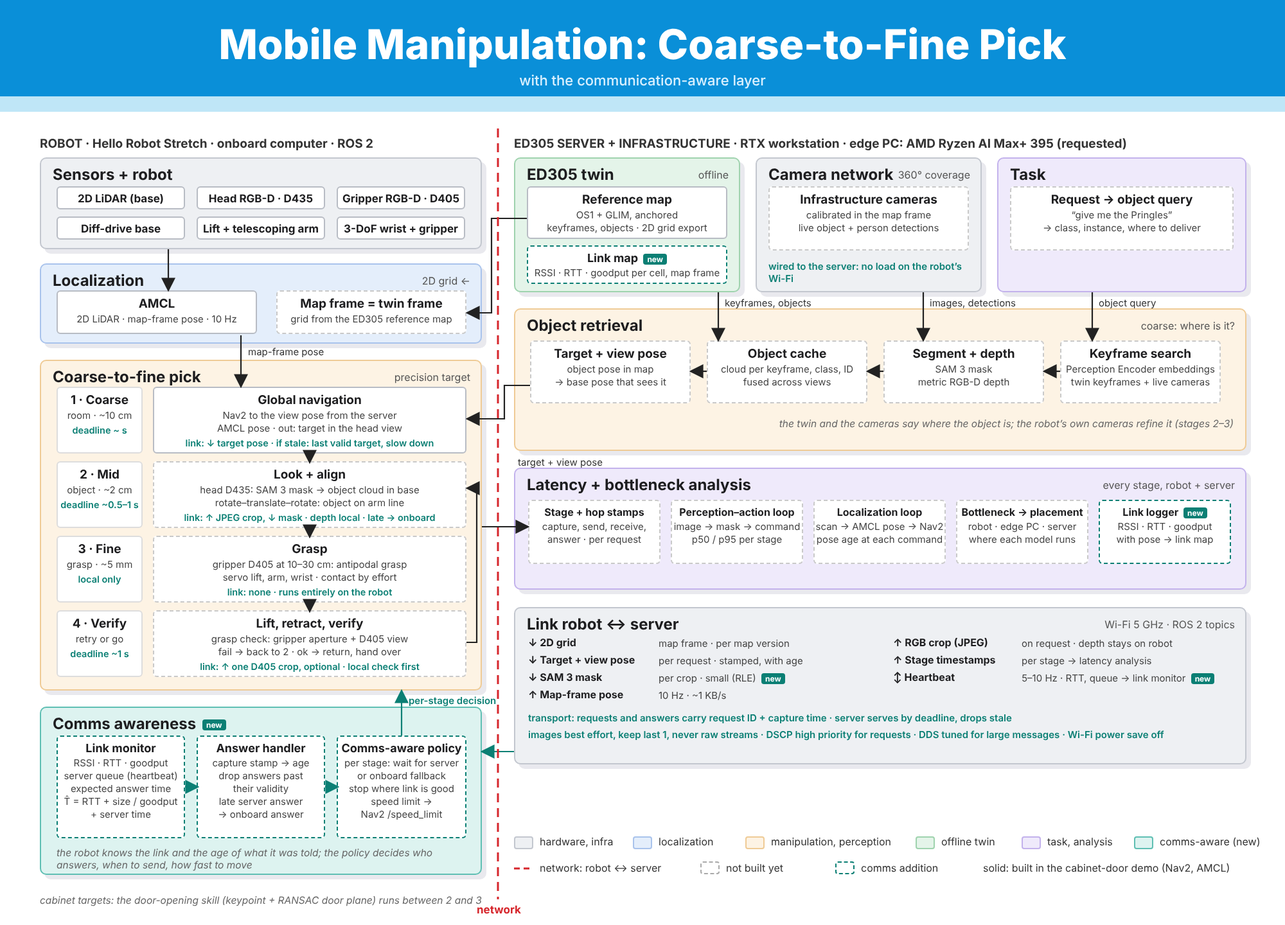
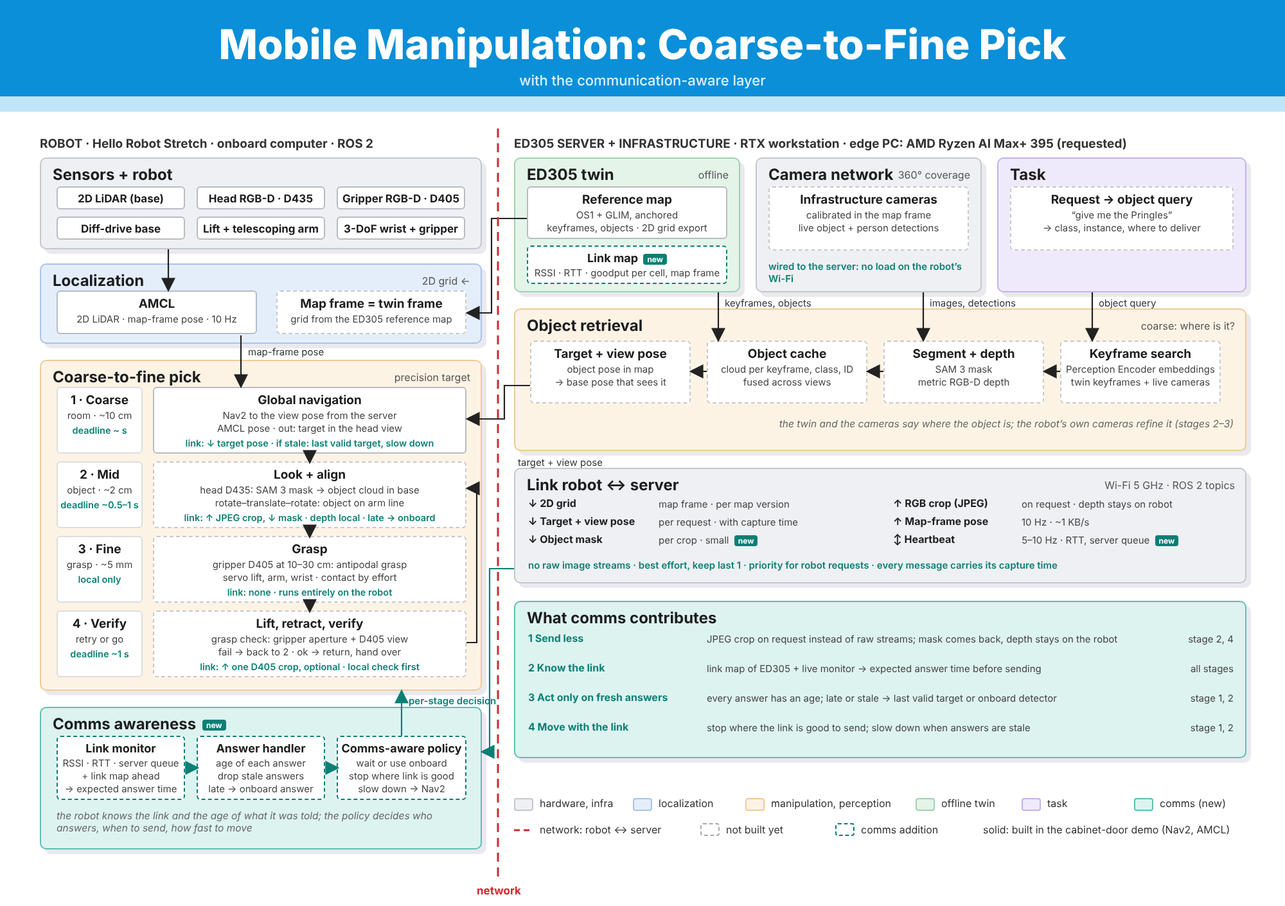
value_scheduling/docs: simplified pick diagram, latency analysis removed, comms contributions added
Claude-Session: https://claude.ai/code/session_01DRH73LQ5v6ELsEk8DTfauh

diff --git a/value_scheduling/docs/stretch_comms_architecture.html b/value_scheduling/docs/stretch_comms_architecture.html
@@ -1,6 +1,6 @@
 <!doctype html><html><head><meta charset="utf-8"><title>Coarse-to-Fine Pick</title><style>
 * { box-sizing:border-box; margin:0; padding:0 }
-body { width:2000px; height:1440px; position:relative; background:#fff;
+body { width:2000px; height:1410px; position:relative; background:#fff;
         font-family:'Inter', 'DejaVu Sans', sans-serif; color:#1d1d1f }
 .hdr { position:absolute; left:0; top:0; width:2000px; height:150px; background:#0a8fd8;
         color:#fff; font-size:64px; font-weight:800; text-align:center; padding-top:30px }
@@ -28,4 +28,4 @@ body { width:2000px; height:1440px; position:relative; background:#fff;
 .new { display:inline-block; font-size:12px; font-weight:700; color:#fff; background:#0b7f74;
         border-radius:4px; padding:1px 6px; vertical-align:middle; margin-left:4px }
 svg { position:absolute; left:0; top:0 }
-</style></head><body><div class="hdr">Mobile Manipulation: Coarse-to-Fine Pick</div><div class="sub">with the communication-aware layer</div><div class="stripe"></div><div class="colh" style="left:62px;top:212px;text-align:left">ROBOT · Hello Robot Stretch · onboard computer · ROS 2</div><div class="box" style="left:62px;top:245px;width:688px;height:143px;background:#eef0f3;border-color:#c3c7cf"><div class="bt">Sensors + robot</div><div class="br"></div></div><div class="card" style="left:88px;top:290px;width:200px;height:36px;border:2px solid #b8bcc4"><div class="ct" style="font-size:17px">2D LiDAR (base)</div></div><div class="card" style="left:88px;top:337px;width:200px;height:36px;border:2px solid #b8bcc4"><div class="ct" style="font-size:17px">Diff-drive base</div></div><div class="card" style="left:306px;top:290px;width:200px;height:36px;border:2px solid #b8bcc4"><div class="ct" style="font-size:17px">Head RGB-D · D435</div></div><div class="card" style="left:306px;top:337px;width:200px;height:36px;border:2px solid #b8bcc4"><div class="ct" style="font-size:17px">Lift + telescoping arm</div></div><div class="card" style="left:524px;top:290px;width:200px;height:36px;border:2px solid #b8bcc4"><div class="ct" style="font-size:17px">Gripper RGB-D · D405</div></div><div class="card" style="left:524px;top:337px;width:200px;height:36px;border:2px solid #b8bcc4"><div class="ct" style="font-size:17px">3-DoF wrist + gripper</div></div><div class="box" style="left:62px;top:410px;width:688px;height:125px;background:#e4eefb;border-color:#a9c3ec"><div class="bt">Localization</div><div class="br">2D grid ←</div></div><div class="card" style="left:88px;top:452px;width:312px;height:68px;border:2px solid #b8bcc4"><div class="ct" style="font-size:19px">AMCL</div><div class="cl">2D LiDAR · map-frame pose · 10 Hz</div></div><div class="card" style="left:430px;top:452px;width:296px;height:68px;border:2px dashed #c9c9c9"><div class="ct" style="font-size:19px">Map frame = twin frame</div><div class="cl">grid from the ED305 reference map</div></div><div class="box" style="left:62px;top:560px;width:688px;height:515px;background:#fdf3e4;border-color:#efcb96"><div class="bt">Coarse-to-fine pick</div><div class="br">precision target</div></div><div class="card stage" style="left:88px;top:602px;width:134px;height:104px"><div class="ct">1 · Coarse</div><div class="cl">room · ~10 cm</div><div class="cl comm">deadline ~ s</div></div><div class="card" style="left:238px;top:602px;width:488px;height:104px;border:2px solid #b8bcc4"><div class="ct" style="font-size:19px">Global navigation</div><div class="cl">Nav2 to the view pose from the server</div><div class="cl">AMCL pose · out: target in the head view</div><div class="cl comm">link: ↓ target pose · if stale: last valid target, slow down</div></div><div class="card stage" style="left:88px;top:718px;width:134px;height:104px"><div class="ct">2 · Mid</div><div class="cl">object · ~2 cm</div><div class="cl comm">deadline ~0.5–1 s</div></div><div class="card" style="left:238px;top:718px;width:488px;height:104px;border:2px dashed #c9c9c9"><div class="ct" style="font-size:19px">Look + align</div><div class="cl">head D435: SAM 3 mask → object cloud in base</div><div class="cl">rotate–translate–rotate: object on arm line</div><div class="cl comm">link: ↑ JPEG crop, ↓ mask · depth local · late → onboard</div></div><div class="card stage" style="left:88px;top:834px;width:134px;height:104px"><div class="ct">3 · Fine</div><div class="cl">grasp · ~5 mm</div><div class="cl comm">local only</div></div><div class="card" style="left:238px;top:834px;width:488px;height:104px;border:2px dashed #c9c9c9"><div class="ct" style="font-size:19px">Grasp</div><div class="cl">gripper D405 at 10–30 cm: antipodal grasp</div><div class="cl">servo lift, arm, wrist · contact by effort</div><div class="cl comm">link: none · runs entirely on the robot</div></div><div class="card stage" style="left:88px;top:950px;width:134px;height:104px"><div class="ct">4 · Verify</div><div class="cl">retry or go</div><div class="cl comm">deadline ~1 s</div></div><div class="card" style="left:238px;top:950px;width:488px;height:104px;border:2px dashed #c9c9c9"><div class="ct" style="font-size:19px">Lift, retract, verify</div><div class="cl">grasp check: gripper aperture + D405 view</div><div class="cl">fail → back to 2 · ok → return, hand over</div><div class="cl comm">link: ↑ one D405 crop, optional · local check first</div></div><div class="box" style="left:62px;top:1100px;width:688px;height:262px;background:#ddf3f0;border-color:#5fbfb3"><div class="bt">Comms awareness <span class="new">new</span></div><div class="br"></div></div><div class="card" style="left:88px;top:1145px;width:200px;height:160px;border:2px dashed #0b7f74"><div class="ct" style="font-size:18px">Link monitor</div><div class="cl">RSSI · RTT · goodput</div><div class="cl">server queue (heartbeat)</div><div class="cl">expected answer time</div><div class="cl">T̂ = RTT + size / goodput</div><div class="cl">+ server time</div></div><div class="card" style="left:306px;top:1145px;width:200px;height:160px;border:2px dashed #0b7f74"><div class="ct" style="font-size:18px">Answer handler</div><div class="cl">capture stamp → age</div><div class="cl">drop answers past</div><div class="cl">their validity</div><div class="cl">late server answer</div><div class="cl">→ onboard answer</div></div><div class="card" style="left:524px;top:1145px;width:202px;height:160px;border:2px dashed #0b7f74"><div class="ct" style="font-size:18px">Comms-aware policy</div><div class="cl">per stage: wait for server</div><div class="cl">or onboard fallback</div><div class="cl">stop where link is good</div><div class="cl">speed limit →</div><div class="cl">Nav2 /speed_limit</div></div><div class="note" style="left:88px;top:1318px;width:640px;text-align:left">the robot knows the link and the age of what it was told; the policy decides who answers, when to send, how fast to move</div><div class="lbl teal" style="left:636px;top:1081px;text-align:left">per-stage decision</div><div class="note" style="left:62px;top:1392px;text-align:left">cabinet targets: the door-opening skill (keypoint + RANSAC door plane) runs between 2 and 3</div><div class="colh" style="left:800px;top:212px;text-align:left">ED305 SERVER + INFRASTRUCTURE · RTX workstation · edge PC: AMD Ryzen AI Max+ 395 (requested)</div><div class="box" style="left:800px;top:245px;width:352px;height:210px;background:#e4f4e9;border-color:#9fd3ae"><div class="bt">ED305 twin</div><div class="br">offline</div></div><div class="card" style="left:820px;top:290px;width:312px;height:82px;border:2px solid #b8bcc4"><div class="ct" style="font-size:19px">Reference map</div><div class="cl">OS1 + GLIM, anchored</div><div class="cl">keyframes, objects · 2D grid export</div></div><div class="card" style="left:820px;top:382px;width:312px;height:60px;border:2px dashed #0b7f74"><div class="ct" style="font-size:18px">Link map <span class="new">new</span></div><div class="cl">RSSI · RTT · goodput per cell, map frame</div></div><div class="box" style="left:1176px;top:245px;width:352px;height:210px;background:#eef0f3;border-color:#c3c7cf"><div class="bt">Camera network</div><div class="br">360° coverage</div></div><div class="card" style="left:1196px;top:290px;width:312px;height:100px;border:2px dashed #c9c9c9"><div class="ct" style="font-size:19px">Infrastructure cameras</div><div class="cl">calibrated in the map frame</div><div class="cl">live object + person detections</div></div><div class="lbl teal" style="left:1196px;top:405px;width:312px;text-align:left">wired to the server: no load on the robot’s Wi-Fi</div><div class="box" style="left:1552px;top:245px;width:388px;height:210px;background:#efeafb;border-color:#c3b2ec"><div class="bt">Task</div><div class="br"></div></div><div class="card" style="left:1572px;top:290px;width:348px;height:100px;border:2px dashed #c9c9c9"><div class="ct" style="font-size:19px">Request → object query</div><div class="cl">“give me the Pringles”</div><div class="cl">→ class, instance, where to deliver</div></div><div class="box" style="left:800px;top:480px;width:1140px;height:222px;background:#fdf3e4;border-color:#efcb96"><div class="bt">Object retrieval</div><div class="br">coarse: where is it?</div></div><div class="card" style="left:825px;top:530px;width:250px;height:98px;border:2px dashed #c9c9c9"><div class="ct" style="font-size:19px">Target + view pose</div><div class="cl">object pose in map</div><div class="cl">→ base pose that sees it</div></div><div class="card" style="left:1100px;top:530px;width:250px;height:98px;border:2px dashed #c9c9c9"><div class="ct" style="font-size:19px">Object cache</div><div class="cl">cloud per keyframe, class, ID</div><div class="cl">fused across views</div></div><div class="card" style="left:1375px;top:530px;width:250px;height:98px;border:2px dashed #c9c9c9"><div class="ct" style="font-size:19px">Segment + depth</div><div class="cl">SAM 3 mask</div><div class="cl">metric RGB-D depth</div></div><div class="card" style="left:1650px;top:530px;width:250px;height:98px;border:2px dashed #c9c9c9"><div class="ct" style="font-size:19px">Keyframe search</div><div class="cl">Perception Encoder embeddings</div><div class="cl">twin keyframes + live cameras</div></div><div class="note" style="left:820px;top:650px;width:1100px;text-align:right">the twin and the cameras say where the object is; the robot’s own cameras refine it (stages 2–3)</div><div class="lbl" style="left:1128px;top:462px;text-align:left">keyframes, objects</div><div class="lbl" style="left:1447px;top:462px;text-align:left">images, detections</div><div class="lbl" style="left:1710px;top:462px;text-align:left">object query</div><div class="box" style="left:800px;top:728px;width:1140px;height:190px;background:#efeafb;border-color:#c3b2ec"><div class="bt">Latency + bottleneck analysis</div><div class="br">every stage, robot + server</div></div><div class="card" style="left:822px;top:778px;width:206px;height:100px;border:2px dashed #c9c9c9"><div class="ct" style="font-size:16px">Stage + hop stamps</div><div class="cl">capture, send, receive,</div><div class="cl">answer · per request</div></div><div class="card" style="left:1044px;top:778px;width:206px;height:100px;border:2px dashed #c9c9c9"><div class="ct" style="font-size:16px">Perception–action loop</div><div class="cl">image → mask → command</div><div class="cl">p50 / p95 per stage</div></div><div class="card" style="left:1266px;top:778px;width:206px;height:100px;border:2px dashed #c9c9c9"><div class="ct" style="font-size:16px">Localization loop</div><div class="cl">scan → AMCL pose → Nav2</div><div class="cl">pose age at each command</div></div><div class="card" style="left:1488px;top:778px;width:206px;height:100px;border:2px dashed #c9c9c9"><div class="ct" style="font-size:16px">Bottleneck → placement</div><div class="cl">robot · edge PC · server</div><div class="cl">where each model runs</div></div><div class="card" style="left:1710px;top:778px;width:206px;height:100px;border:2px dashed #0b7f74"><div class="ct" style="font-size:16px">Link logger <span class="new">new</span></div><div class="cl">RSSI · RTT · goodput</div><div class="cl">with pose → link map</div></div><div class="box" style="left:800px;top:945px;width:1140px;height:245px;background:#eef0f3;border-color:#c3c7cf"><div class="bt">Link robot ↔ server</div><div class="br">Wi-Fi 5 GHz · ROS 2 topics</div></div><div class="lk" style="left:822px;top:990px;text-align:left">↓ 2D grid</div><div class="lv" style="left:1025px;top:992px;text-align:left">map frame · per map version</div><div class="lk" style="left:822px;top:1017px;text-align:left">↓ Target + view pose</div><div class="lv" style="left:1025px;top:1019px;text-align:left">per request · stamped, with age</div><div class="lk" style="left:822px;top:1044px;text-align:left">↓ SAM 3 mask</div><div class="lv" style="left:1025px;top:1046px;text-align:left">per crop · small (RLE) <span class="new">new</span></div><div class="lk" style="left:822px;top:1071px;text-align:left">↑ Map-frame pose</div><div class="lv" style="left:1025px;top:1073px;text-align:left">10 Hz · ~1 KB/s</div><div class="lk" style="left:1390px;top:990px;text-align:left">↑ RGB crop (JPEG)</div><div class="lv" style="left:1590px;top:992px;text-align:left">on request · depth stays on robot</div><div class="lk" style="left:1390px;top:1017px;text-align:left">↑ Stage timestamps</div><div class="lv" style="left:1590px;top:1019px;text-align:left">per stage → latency analysis</div><div class="lk" style="left:1390px;top:1044px;text-align:left">↕ Heartbeat</div><div class="lv" style="left:1590px;top:1046px;text-align:left">5–10 Hz · RTT, queue → link monitor <span class="new">new</span></div><div class="lv teal" style="left:822px;top:1108px;width:1100px;text-align:left">transport: requests and answers carry request ID + capture time · server serves by deadline, drops stale</div><div class="lv teal" style="left:822px;top:1134px;width:1100px;text-align:left">images best effort, keep last 1, never raw streams · DSCP high priority for requests · DDS tuned for large messages · Wi-Fi power save off</div><div class="sw" style="left:800px;top:1302px;background:#eef0f3;border-color:#c3c7cf"></div><div class="lg" style="left:840px;top:1300px;text-align:left">hardware, infra</div><div class="sw" style="left:985px;top:1302px;background:#e4eefb;border-color:#a9c3ec"></div><div class="lg" style="left:1025px;top:1300px;text-align:left">localization</div><div class="sw" style="left:1160px;top:1302px;background:#fdf3e4;border-color:#efcb96"></div><div class="lg" style="left:1200px;top:1300px;text-align:left">manipulation, perception</div><div class="sw" style="left:1425px;top:1302px;background:#e4f4e9;border-color:#9fd3ae"></div><div class="lg" style="left:1465px;top:1300px;text-align:left">offline twin</div><div class="sw" style="left:1590px;top:1302px;background:#efeafb;border-color:#c3b2ec"></div><div class="lg" style="left:1630px;top:1300px;text-align:left">task, analysis</div><div class="sw" style="left:1765px;top:1302px;background:#ddf3f0;border-color:#5fbfb3"></div><div class="lg" style="left:1805px;top:1300px;text-align:left">comms-aware (new)</div><div class="lg" style="left:840px;top:1341px;text-align:left">network: robot ↔ server</div><div class="sw" style="left:1090px;top:1341px;background:#fff;border:2px dashed #aaa"></div><div class="lg" style="left:1130px;top:1341px;text-align:left">not built yet</div><div class="sw" style="left:1300px;top:1341px;background:#fff;border:2px dashed #0b7f74"></div><div class="lg" style="left:1340px;top:1341px;text-align:left">comms addition</div><div class="lg" style="left:1530px;top:1341px;text-align:left">solid: built in the cabinet-door demo (Nav2, AMCL)</div><div class="lbl" style="left:386px;top:538px;text-align:left">map-frame pose</div><div class="lbl" style="left:806px;top:710px;text-align:left">target + view pose</div><div class="netl" style="left:742px;top:1406px;text-align:left">network</div><svg width="2000" height="1440"><defs><marker id="ah" markerWidth="10" markerHeight="10" refX="8" refY="5" orient="auto"><path d="M0,0 L10,5 L0,10 z" fill="#222"/></marker><marker id="aht" markerWidth="10" markerHeight="10" refX="8" refY="5" orient="auto"><path d="M0,0 L10,5 L0,10 z" fill="#0b7f74"/></marker></defs><polyline points="482,706 482,718" fill="none" stroke="#222" stroke-width="2.2"  marker-end="url(#ah)"/><polyline points="482,822 482,834" fill="none" stroke="#222" stroke-width="2.2"  marker-end="url(#ah)"/><polyline points="482,938 482,950" fill="none" stroke="#222" stroke-width="2.2"  marker-end="url(#ah)"/><polyline points="625,1145 625,1077" fill="none" stroke="#0b7f74" stroke-width="2.2"  marker-end="url(#aht)"/><polyline points="288,1225 306,1225" fill="none" stroke="#0b7f74" stroke-width="2.2"  marker-end="url(#aht)"/><polyline points="506,1225 524,1225" fill="none" stroke="#0b7f74" stroke-width="2.2"  marker-end="url(#aht)"/><polyline points="1650,578 1627,578" fill="none" stroke="#222" stroke-width="2.2"  marker-end="url(#ah)"/><polyline points="1375,578 1352,578" fill="none" stroke="#222" stroke-width="2.2"  marker-end="url(#ah)"/><polyline points="1100,578 1077,578" fill="none" stroke="#222" stroke-width="2.2"  marker-end="url(#ah)"/><polyline points="1118,455 1118,528" fill="none" stroke="#222" stroke-width="2.2"  marker-end="url(#ah)"/><polyline points="1437,455 1437,528" fill="none" stroke="#222" stroke-width="2.2"  marker-end="url(#ah)"/><polyline points="1700,455 1700,528" fill="none" stroke="#222" stroke-width="2.2"  marker-end="url(#ah)"/><line x1="800" y1="1352" x2="830" y2="1352" stroke="#d6262c" stroke-width="3" stroke-dasharray="9,6"/><polyline points="820,340 765,340 765,487 729,487" fill="none" stroke="#222" stroke-width="2.2"  marker-end="url(#ah)"/><polyline points="375,522 375,600" fill="none" stroke="#222" stroke-width="2.2"  marker-end="url(#ah)"/><polyline points="825,600 785,600 785,652 729,652" fill="none" stroke="#222" stroke-width="2.2"  marker-end="url(#ah)"/><polyline points="262,388 262,450" fill="none" stroke="#222" stroke-width="2.2"  marker-end="url(#ah)"/><polyline points="726,1000 742,1000 742,760 729,760" fill="none" stroke="#222" stroke-width="2.2"  marker-end="url(#ah)"/><polyline points="750,820 820,820" fill="none" stroke="#222" stroke-width="2.2"  marker-end="url(#ah)"/><polyline points="800,1170 752,1170" fill="none" stroke="#0b7f74" stroke-width="2.2"  marker-end="url(#aht)"/><line x1="775" y1="200" x2="775" y2="1400" stroke="#d6262c" stroke-width="3" stroke-dasharray="14,9"/></svg></body></html>
+</style></head><body><div class="hdr">Mobile Manipulation: Coarse-to-Fine Pick</div><div class="sub">with the communication-aware layer</div><div class="stripe"></div><div class="colh" style="left:62px;top:212px;text-align:left">ROBOT · Hello Robot Stretch · onboard computer · ROS 2</div><div class="box" style="left:62px;top:245px;width:688px;height:143px;background:#eef0f3;border-color:#c3c7cf"><div class="bt">Sensors + robot</div><div class="br"></div></div><div class="card" style="left:88px;top:290px;width:200px;height:36px;border:2px solid #b8bcc4"><div class="ct" style="font-size:17px">2D LiDAR (base)</div></div><div class="card" style="left:88px;top:337px;width:200px;height:36px;border:2px solid #b8bcc4"><div class="ct" style="font-size:17px">Diff-drive base</div></div><div class="card" style="left:306px;top:290px;width:200px;height:36px;border:2px solid #b8bcc4"><div class="ct" style="font-size:17px">Head RGB-D · D435</div></div><div class="card" style="left:306px;top:337px;width:200px;height:36px;border:2px solid #b8bcc4"><div class="ct" style="font-size:17px">Lift + telescoping arm</div></div><div class="card" style="left:524px;top:290px;width:200px;height:36px;border:2px solid #b8bcc4"><div class="ct" style="font-size:17px">Gripper RGB-D · D405</div></div><div class="card" style="left:524px;top:337px;width:200px;height:36px;border:2px solid #b8bcc4"><div class="ct" style="font-size:17px">3-DoF wrist + gripper</div></div><div class="box" style="left:62px;top:410px;width:688px;height:125px;background:#e4eefb;border-color:#a9c3ec"><div class="bt">Localization</div><div class="br">2D grid ←</div></div><div class="card" style="left:88px;top:452px;width:312px;height:68px;border:2px solid #b8bcc4"><div class="ct" style="font-size:19px">AMCL</div><div class="cl">2D LiDAR · map-frame pose · 10 Hz</div></div><div class="card" style="left:430px;top:452px;width:296px;height:68px;border:2px dashed #c9c9c9"><div class="ct" style="font-size:19px">Map frame = twin frame</div><div class="cl">grid from the ED305 reference map</div></div><div class="box" style="left:62px;top:560px;width:688px;height:515px;background:#fdf3e4;border-color:#efcb96"><div class="bt">Coarse-to-fine pick</div><div class="br">precision target</div></div><div class="card stage" style="left:88px;top:602px;width:134px;height:104px"><div class="ct">1 · Coarse</div><div class="cl">room · ~10 cm</div><div class="cl comm">deadline ~ s</div></div><div class="card" style="left:238px;top:602px;width:488px;height:104px;border:2px solid #b8bcc4"><div class="ct" style="font-size:19px">Global navigation</div><div class="cl">Nav2 to the view pose from the server</div><div class="cl">AMCL pose · out: target in the head view</div><div class="cl comm">link: ↓ target pose · if stale: last valid target, slow down</div></div><div class="card stage" style="left:88px;top:718px;width:134px;height:104px"><div class="ct">2 · Mid</div><div class="cl">object · ~2 cm</div><div class="cl comm">deadline ~0.5–1 s</div></div><div class="card" style="left:238px;top:718px;width:488px;height:104px;border:2px dashed #c9c9c9"><div class="ct" style="font-size:19px">Look + align</div><div class="cl">head D435: SAM 3 mask → object cloud in base</div><div class="cl">rotate–translate–rotate: object on arm line</div><div class="cl comm">link: ↑ JPEG crop, ↓ mask · depth local · late → onboard</div></div><div class="card stage" style="left:88px;top:834px;width:134px;height:104px"><div class="ct">3 · Fine</div><div class="cl">grasp · ~5 mm</div><div class="cl comm">local only</div></div><div class="card" style="left:238px;top:834px;width:488px;height:104px;border:2px dashed #c9c9c9"><div class="ct" style="font-size:19px">Grasp</div><div class="cl">gripper D405 at 10–30 cm: antipodal grasp</div><div class="cl">servo lift, arm, wrist · contact by effort</div><div class="cl comm">link: none · runs entirely on the robot</div></div><div class="card stage" style="left:88px;top:950px;width:134px;height:104px"><div class="ct">4 · Verify</div><div class="cl">retry or go</div><div class="cl comm">deadline ~1 s</div></div><div class="card" style="left:238px;top:950px;width:488px;height:104px;border:2px dashed #c9c9c9"><div class="ct" style="font-size:19px">Lift, retract, verify</div><div class="cl">grasp check: gripper aperture + D405 view</div><div class="cl">fail → back to 2 · ok → return, hand over</div><div class="cl comm">link: ↑ one D405 crop, optional · local check first</div></div><div class="box" style="left:62px;top:1100px;width:688px;height:222px;background:#ddf3f0;border-color:#5fbfb3"><div class="bt">Comms awareness <span class="new">new</span></div><div class="br"></div></div><div class="card" style="left:88px;top:1145px;width:200px;height:100px;border:2px dashed #0b7f74"><div class="ct" style="font-size:18px">Link monitor</div><div class="cl">RSSI · RTT · server queue</div><div class="cl">+ link map ahead</div><div class="cl">→ expected answer time</div></div><div class="card" style="left:306px;top:1145px;width:200px;height:100px;border:2px dashed #0b7f74"><div class="ct" style="font-size:18px">Answer handler</div><div class="cl">age of each answer</div><div class="cl">drop stale answers</div><div class="cl">late → onboard answer</div></div><div class="card" style="left:524px;top:1145px;width:202px;height:100px;border:2px dashed #0b7f74"><div class="ct" style="font-size:18px">Comms-aware policy</div><div class="cl">wait or use onboard</div><div class="cl">stop where link is good</div><div class="cl">slow down → Nav2</div></div><div class="note" style="left:88px;top:1260px;width:640px;text-align:left">the robot knows the link and the age of what it was told; the policy decides who answers, when to send, how fast to move</div><div class="lbl teal" style="left:636px;top:1081px;text-align:left">per-stage decision</div><div class="colh" style="left:800px;top:212px;text-align:left">ED305 SERVER + INFRASTRUCTURE · RTX workstation · edge PC: AMD Ryzen AI Max+ 395 (requested)</div><div class="box" style="left:800px;top:245px;width:352px;height:210px;background:#e4f4e9;border-color:#9fd3ae"><div class="bt">ED305 twin</div><div class="br">offline</div></div><div class="card" style="left:820px;top:290px;width:312px;height:82px;border:2px solid #b8bcc4"><div class="ct" style="font-size:19px">Reference map</div><div class="cl">OS1 + GLIM, anchored</div><div class="cl">keyframes, objects · 2D grid export</div></div><div class="card" style="left:820px;top:382px;width:312px;height:60px;border:2px dashed #0b7f74"><div class="ct" style="font-size:18px">Link map <span class="new">new</span></div><div class="cl">RSSI · RTT · goodput per cell, map frame</div></div><div class="box" style="left:1176px;top:245px;width:352px;height:210px;background:#eef0f3;border-color:#c3c7cf"><div class="bt">Camera network</div><div class="br">360° coverage</div></div><div class="card" style="left:1196px;top:290px;width:312px;height:100px;border:2px dashed #c9c9c9"><div class="ct" style="font-size:19px">Infrastructure cameras</div><div class="cl">calibrated in the map frame</div><div class="cl">live object + person detections</div></div><div class="lbl teal" style="left:1196px;top:405px;width:312px;text-align:left">wired to the server: no load on the robot’s Wi-Fi</div><div class="box" style="left:1552px;top:245px;width:388px;height:210px;background:#efeafb;border-color:#c3b2ec"><div class="bt">Task</div><div class="br"></div></div><div class="card" style="left:1572px;top:290px;width:348px;height:100px;border:2px dashed #c9c9c9"><div class="ct" style="font-size:19px">Request → object query</div><div class="cl">“give me the Pringles”</div><div class="cl">→ class, instance, where to deliver</div></div><div class="box" style="left:800px;top:480px;width:1140px;height:222px;background:#fdf3e4;border-color:#efcb96"><div class="bt">Object retrieval</div><div class="br">coarse: where is it?</div></div><div class="card" style="left:825px;top:530px;width:250px;height:98px;border:2px dashed #c9c9c9"><div class="ct" style="font-size:19px">Target + view pose</div><div class="cl">object pose in map</div><div class="cl">→ base pose that sees it</div></div><div class="card" style="left:1100px;top:530px;width:250px;height:98px;border:2px dashed #c9c9c9"><div class="ct" style="font-size:19px">Object cache</div><div class="cl">cloud per keyframe, class, ID</div><div class="cl">fused across views</div></div><div class="card" style="left:1375px;top:530px;width:250px;height:98px;border:2px dashed #c9c9c9"><div class="ct" style="font-size:19px">Segment + depth</div><div class="cl">SAM 3 mask</div><div class="cl">metric RGB-D depth</div></div><div class="card" style="left:1650px;top:530px;width:250px;height:98px;border:2px dashed #c9c9c9"><div class="ct" style="font-size:19px">Keyframe search</div><div class="cl">Perception Encoder embeddings</div><div class="cl">twin keyframes + live cameras</div></div><div class="note" style="left:820px;top:650px;width:1100px;text-align:right">the twin and the cameras say where the object is; the robot’s own cameras refine it (stages 2–3)</div><div class="lbl" style="left:1128px;top:462px;text-align:left">keyframes, objects</div><div class="lbl" style="left:1447px;top:462px;text-align:left">images, detections</div><div class="lbl" style="left:1710px;top:462px;text-align:left">object query</div><div class="box" style="left:800px;top:728px;width:1140px;height:180px;background:#eef0f3;border-color:#c3c7cf"><div class="bt">Link robot ↔ server</div><div class="br">Wi-Fi 5 GHz · ROS 2 topics</div></div><div class="lk" style="left:822px;top:773px;text-align:left">↓ 2D grid</div><div class="lv" style="left:1025px;top:775px;text-align:left">map frame · per map version</div><div class="lk" style="left:822px;top:801px;text-align:left">↓ Target + view pose</div><div class="lv" style="left:1025px;top:803px;text-align:left">per request · with capture time</div><div class="lk" style="left:822px;top:829px;text-align:left">↓ Object mask</div><div class="lv" style="left:1025px;top:831px;text-align:left">per crop · small <span class="new">new</span></div><div class="lk" style="left:1390px;top:773px;text-align:left">↑ RGB crop (JPEG)</div><div class="lv" style="left:1590px;top:775px;text-align:left">on request · depth stays on robot</div><div class="lk" style="left:1390px;top:801px;text-align:left">↑ Map-frame pose</div><div class="lv" style="left:1590px;top:803px;text-align:left">10 Hz · ~1 KB/s</div><div class="lk" style="left:1390px;top:829px;text-align:left">↕ Heartbeat</div><div class="lv" style="left:1590px;top:831px;text-align:left">5–10 Hz · RTT, server queue <span class="new">new</span></div><div class="lv teal" style="left:822px;top:870px;width:1100px;text-align:left">no raw image streams · best effort, keep last 1 · priority for robot requests · every message carries its capture time</div><div class="box" style="left:800px;top:935px;width:1140px;height:245px;background:#ddf3f0;border-color:#5fbfb3"><div class="bt">What comms contributes</div><div class="br"></div></div><div class="lk teal" style="left:822px;top:983px;text-align:left">1  Send less</div><div class="lv" style="left:1100px;top:985px;width:680px;text-align:left">JPEG crop on request instead of raw streams; mask comes back, depth stays on the robot</div><div class="lv" style="left:1800px;top:985px;width:120px;text-align:right">stage 2, 4</div><div class="lk teal" style="left:822px;top:1029px;text-align:left">2  Know the link</div><div class="lv" style="left:1100px;top:1031px;width:680px;text-align:left">link map of ED305 + live monitor → expected answer time before sending</div><div class="lv" style="left:1800px;top:1031px;width:120px;text-align:right">all stages</div><div class="lk teal" style="left:822px;top:1075px;text-align:left">3  Act only on fresh answers</div><div class="lv" style="left:1100px;top:1077px;width:680px;text-align:left">every answer has an age; late or stale → last valid target or onboard detector</div><div class="lv" style="left:1800px;top:1077px;width:120px;text-align:right">stage 1, 2</div><div class="lk teal" style="left:822px;top:1121px;text-align:left">4  Move with the link</div><div class="lv" style="left:1100px;top:1123px;width:680px;text-align:left">stop where the link is good to send; slow down when answers are stale</div><div class="lv" style="left:1800px;top:1123px;width:120px;text-align:right">stage 1, 2</div><div class="sw" style="left:800px;top:1242px;background:#eef0f3;border-color:#c3c7cf"></div><div class="lg" style="left:840px;top:1240px;text-align:left">hardware, infra</div><div class="sw" style="left:985px;top:1242px;background:#e4eefb;border-color:#a9c3ec"></div><div class="lg" style="left:1025px;top:1240px;text-align:left">localization</div><div class="sw" style="left:1160px;top:1242px;background:#fdf3e4;border-color:#efcb96"></div><div class="lg" style="left:1200px;top:1240px;text-align:left">manipulation, perception</div><div class="sw" style="left:1425px;top:1242px;background:#e4f4e9;border-color:#9fd3ae"></div><div class="lg" style="left:1465px;top:1240px;text-align:left">offline twin</div><div class="sw" style="left:1590px;top:1242px;background:#efeafb;border-color:#c3b2ec"></div><div class="lg" style="left:1630px;top:1240px;text-align:left">task</div><div class="sw" style="left:1765px;top:1242px;background:#ddf3f0;border-color:#5fbfb3"></div><div class="lg" style="left:1805px;top:1240px;text-align:left">comms (new)</div><div class="lg" style="left:840px;top:1281px;text-align:left">network: robot ↔ server</div><div class="sw" style="left:1090px;top:1281px;background:#fff;border:2px dashed #aaa"></div><div class="lg" style="left:1130px;top:1281px;text-align:left">not built yet</div><div class="sw" style="left:1300px;top:1281px;background:#fff;border:2px dashed #0b7f74"></div><div class="lg" style="left:1340px;top:1281px;text-align:left">comms addition</div><div class="lg" style="left:1530px;top:1281px;text-align:left">solid: built in the cabinet-door demo (Nav2, AMCL)</div><div class="lbl" style="left:386px;top:538px;text-align:left">map-frame pose</div><div class="lbl" style="left:806px;top:710px;text-align:left">target + view pose</div><div class="netl" style="left:742px;top:1376px;text-align:left">network</div><svg width="2000" height="1410"><defs><marker id="ah" markerWidth="10" markerHeight="10" refX="8" refY="5" orient="auto"><path d="M0,0 L10,5 L0,10 z" fill="#222"/></marker><marker id="aht" markerWidth="10" markerHeight="10" refX="8" refY="5" orient="auto"><path d="M0,0 L10,5 L0,10 z" fill="#0b7f74"/></marker></defs><polyline points="482,706 482,718" fill="none" stroke="#222" stroke-width="2.2"  marker-end="url(#ah)"/><polyline points="482,822 482,834" fill="none" stroke="#222" stroke-width="2.2"  marker-end="url(#ah)"/><polyline points="482,938 482,950" fill="none" stroke="#222" stroke-width="2.2"  marker-end="url(#ah)"/><polyline points="625,1145 625,1077" fill="none" stroke="#0b7f74" stroke-width="2.2"  marker-end="url(#aht)"/><polyline points="288,1195 306,1195" fill="none" stroke="#0b7f74" stroke-width="2.2"  marker-end="url(#aht)"/><polyline points="506,1195 524,1195" fill="none" stroke="#0b7f74" stroke-width="2.2"  marker-end="url(#aht)"/><polyline points="1650,578 1627,578" fill="none" stroke="#222" stroke-width="2.2"  marker-end="url(#ah)"/><polyline points="1375,578 1352,578" fill="none" stroke="#222" stroke-width="2.2"  marker-end="url(#ah)"/><polyline points="1100,578 1077,578" fill="none" stroke="#222" stroke-width="2.2"  marker-end="url(#ah)"/><polyline points="1118,455 1118,528" fill="none" stroke="#222" stroke-width="2.2"  marker-end="url(#ah)"/><polyline points="1437,455 1437,528" fill="none" stroke="#222" stroke-width="2.2"  marker-end="url(#ah)"/><polyline points="1700,455 1700,528" fill="none" stroke="#222" stroke-width="2.2"  marker-end="url(#ah)"/><line x1="800" y1="1292" x2="830" y2="1292" stroke="#d6262c" stroke-width="3" stroke-dasharray="9,6"/><polyline points="820,340 765,340 765,487 729,487" fill="none" stroke="#222" stroke-width="2.2"  marker-end="url(#ah)"/><polyline points="375,522 375,600" fill="none" stroke="#222" stroke-width="2.2"  marker-end="url(#ah)"/><polyline points="825,600 785,600 785,652 729,652" fill="none" stroke="#222" stroke-width="2.2"  marker-end="url(#ah)"/><polyline points="262,388 262,450" fill="none" stroke="#222" stroke-width="2.2"  marker-end="url(#ah)"/><polyline points="726,1000 742,1000 742,760 729,760" fill="none" stroke="#222" stroke-width="2.2"  marker-end="url(#ah)"/><polyline points="800,885 762,885 762,1170 752,1170" fill="none" stroke="#0b7f74" stroke-width="2.2"  marker-end="url(#aht)"/><line x1="775" y1="200" x2="775" y2="1370" stroke="#d6262c" stroke-width="3" stroke-dasharray="14,9"/></svg></body></html>

diff --git a/value_scheduling/docs/render_diagram.js b/value_scheduling/docs/render_diagram.js
@@ -1,7 +1,7 @@
 const { chromium } = require('playwright');
 (async () => {
   const b = await chromium.launch();
-  const p = await b.newPage({ viewport: { width: 2000, height: 1440 } });
+  const p = await b.newPage({ viewport: { width: 2000, height: 1410 } });
   await p.goto('file://' + __dirname + '/stretch_comms_architecture.html');
   await p.waitForTimeout(300);
   await p.screenshot({ path: __dirname + '/stretch_comms_architecture.png' });

diff --git a/value_scheduling/docs/build_stretch_diagram.py b/value_scheduling/docs/build_stretch_diagram.py
@@ -5,7 +5,7 @@ Layout follows the group's original diagram; additions are in teal.
 """
 from pathlib import Path
 
-W, H = 2000, 1440
+W, H = 2000, 1410
 C = {
     'hw': ('#eef0f3', '#c3c7cf'),
     'loc': ('#e4eefb', '#a9c3ec'),
@@ -105,26 +105,21 @@ for y0, y1 in [(706, 718), (822, 834), (938, 950)]:
     line([(482, y0), (482, y1)])
 
 # comms awareness box (new)
-box(62, 1100, 688, 262, 'com', 'Comms awareness <span class="new">new</span>',
+box(62, 1100, 688, 222, 'com', 'Comms awareness <span class="new">new</span>',
     '')
-card(88, 1145, 200, 160, 'Link monitor',
-     ['RSSI · RTT · goodput', 'server queue (heartbeat)',
-      'expected answer time', 'T̂ = RTT + size / goodput', '+ server time'], new=True, title_size=18)
-card(306, 1145, 200, 160, 'Answer handler',
-     ['capture stamp → age', 'drop answers past', 'their validity',
-      'late server answer', '→ onboard answer'], new=True, title_size=18)
-card(524, 1145, 202, 160, 'Comms-aware policy',
-     ['per stage: wait for server', 'or onboard fallback', 'stop where link is good',
-      'speed limit →', 'Nav2 /speed_limit'], new=True, title_size=18)
-text(88, 1318, 'the robot knows the link and the age of what it was told; the policy '
+card(88, 1145, 200, 100, 'Link monitor',
+     ['RSSI · RTT · server queue', '+ link map ahead', '→ expected answer time'], new=True, title_size=18)
+card(306, 1145, 200, 100, 'Answer handler',
+     ['age of each answer', 'drop stale answers', 'late → onboard answer'], new=True, title_size=18)
+card(524, 1145, 202, 100, 'Comms-aware policy',
+     ['wait or use onboard', 'stop where link is good', 'slow down → Nav2'], new=True, title_size=18)
+text(88, 1260, 'the robot knows the link and the age of what it was told; the policy '
      'decides who answers, when to send, how fast to move', 'note', w=640)
 line([(625, 1145), (625, 1077)], color=TEAL)
 text(636, 1081, 'per-stage decision', 'lbl teal')
-line([(288, 1225), (306, 1225)], color=TEAL)
-line([(506, 1225), (524, 1225)], color=TEAL)
+line([(288, 1195), (306, 1195)], color=TEAL)
+line([(506, 1195), (524, 1195)], color=TEAL)
 
-text(62, 1392, 'cabinet targets: the door-opening skill (keypoint + RANSAC door plane) '
-     'runs between 2 and 3', 'note')
 
 # ---------------- right: server ----------------
 text(800, 212, 'ED305 SERVER + INFRASTRUCTURE · RTX workstation · edge PC: '
@@ -164,53 +159,54 @@ text(1447, 462, 'images, detections', 'lbl')
 line([(1700, 455), (1700, 528)])
 text(1710, 462, 'object query', 'lbl')
 
-box(800, 728, 1140, 190, 'task', 'Latency + bottleneck analysis', 'every stage, robot + server')
-lc = [('Stage + hop stamps', ['capture, send, receive,', 'answer · per request'], False),
-      ('Perception–action loop', ['image → mask → command', 'p50 / p95 per stage'], False),
-      ('Localization loop', ['scan → AMCL pose → Nav2', 'pose age at each command'], False),
-      ('Bottleneck → placement', ['robot · edge PC · server', 'where each model runs'], False),
-      ('Link logger <span class="new">new</span>', ['RSSI · RTT · goodput', 'with pose → link map'], True)]
-for i, (t, l, n) in enumerate(lc):
-    card(822 + i * 222, 778, 206, 100, t, l, new=n, title_size=16)
-
-box(800, 945, 1140, 245, 'hw', 'Link robot ↔ server', 'Wi-Fi 5 GHz · ROS 2 topics')
+box(800, 728, 1140, 180, 'hw', 'Link robot ↔ server', 'Wi-Fi 5 GHz · ROS 2 topics')
 rows_l = [('↓ 2D grid', 'map frame · per map version'),
-          ('↓ Target + view pose', 'per request · stamped, with age'),
-          ('↓ SAM 3 mask', 'per crop · small (RLE) <span class="new">new</span>'),
-          ('↑ Map-frame pose', '10 Hz · ~1 KB/s')]
+          ('↓ Target + view pose', 'per request · with capture time'),
+          ('↓ Object mask', 'per crop · small <span class="new">new</span>')]
 rows_r = [('↑ RGB crop (JPEG)', 'on request · depth stays on robot'),
-          ('↑ Stage timestamps', 'per stage → latency analysis'),
-          ('↕ Heartbeat', '5–10 Hz · RTT, queue → link monitor <span class="new">new</span>')]
-for i, (a, b) in enumerate(rows_l):
-    text(822, 990 + i * 27, a, 'lk')
-    text(1025, 992 + i * 27, b, 'lv')
-for i, (a, b) in enumerate(rows_r):
-    text(1390, 990 + i * 27, a, 'lk')
-    text(1590, 992 + i * 27, b, 'lv')
-text(822, 1108, 'transport: requests and answers carry request ID + capture time · '
-     'server serves by deadline, drops stale', 'lv teal', w=1100)
-text(822, 1134, 'images best effort, keep last 1, never raw streams · DSCP high priority '
-     'for requests · DDS tuned for large messages · Wi-Fi power save off', 'lv teal', w=1100)
+          ('↑ Map-frame pose', '10 Hz · ~1 KB/s'),
+          ('↕ Heartbeat', '5–10 Hz · RTT, server queue <span class="new">new</span>')]
+for i, (a_, b_) in enumerate(rows_l):
+    text(822, 773 + i * 28, a_, 'lk')
+    text(1025, 775 + i * 28, b_, 'lv')
+for i, (a_, b_) in enumerate(rows_r):
+    text(1390, 773 + i * 28, a_, 'lk')
+    text(1590, 775 + i * 28, b_, 'lv')
+text(822, 870, 'no raw image streams · best effort, keep last 1 · priority for robot '
+     'requests · every message carries its capture time', 'lv teal', w=1100)
+
+box(800, 935, 1140, 245, 'com', 'What comms contributes')
+contrib = [
+    ('1  Send less', 'JPEG crop on request instead of raw streams; mask comes back, depth stays on the robot', 'stage 2, 4'),
+    ('2  Know the link', 'link map of ED305 + live monitor → expected answer time before sending', 'all stages'),
+    ('3  Act only on fresh answers', 'every answer has an age; late or stale → last valid target or onboard detector', 'stage 1, 2'),
+    ('4  Move with the link', 'stop where the link is good to send; slow down when answers are stale', 'stage 1, 2'),
+]
+for i, (t, d, st) in enumerate(contrib):
+    y = 983 + i * 46
+    text(822, y, t, 'lk teal')
+    text(1100, y + 2, d, 'lv', w=680)
+    text(1800, y + 2, st, 'lv', w=120, align='right')
 
 # legend
 lg = [('hw', 'hardware, infra'), ('loc', 'localization'), ('man', 'manipulation, perception'),
-      ('twin', 'offline twin'), ('task', 'task, analysis'), ('com', 'comms-aware (new)')]
+      ('twin', 'offline twin'), ('task', 'task'), ('com', 'comms (new)')]
 LX = [800, 985, 1160, 1425, 1590, 1765]
 for i, (k, s) in enumerate(lg):
     bg, bd = C[k]
     x = LX[i]
-    out.append(f'<div class="sw" style="left:{x}px;top:1302px;background:{bg};border-color:{bd}"></div>')
-    text(x + 40, 1300, s, 'lg')
-svg.append('<line x1="800" y1="1352" x2="830" y2="1352" stroke="#d6262c" '
+    out.append(f'<div class="sw" style="left:{x}px;top:1242px;background:{bg};border-color:{bd}"></div>')
+    text(x + 40, 1240, s, 'lg')
+svg.append('<line x1="800" y1="1292" x2="830" y2="1292" stroke="#d6262c" '
            'stroke-width="3" stroke-dasharray="9,6"/>')
-text(840, 1341, 'network: robot ↔ server', 'lg')
-out.append('<div class="sw" style="left:1090px;top:1341px;background:#fff;'
+text(840, 1281, 'network: robot ↔ server', 'lg')
+out.append('<div class="sw" style="left:1090px;top:1281px;background:#fff;'
            'border:2px dashed #aaa"></div>')
-text(1130, 1341, 'not built yet', 'lg')
-out.append(f'<div class="sw" style="left:1300px;top:1341px;background:#fff;'
+text(1130, 1281, 'not built yet', 'lg')
+out.append(f'<div class="sw" style="left:1300px;top:1281px;background:#fff;'
            f'border:2px dashed {TEAL}"></div>')
-text(1340, 1341, 'comms addition', 'lg')
-text(1530, 1341, 'solid: built in the cabinet-door demo (Nav2, AMCL)', 'lg')
+text(1340, 1281, 'comms addition', 'lg')
+text(1530, 1281, 'solid: built in the cabinet-door demo (Nav2, AMCL)', 'lg')
 
 # ---------------- cross arrows ----------------
 # reference map -> map frame
@@ -225,10 +221,8 @@ text(806, 710, 'target + view pose', 'lbl')
 line([(262, 388), (262, 450)])
 # verify -> back to look + align
 line([(726, 1000), (742, 1000), (742, 760), (729, 760)])
-# pick -> latency analysis
-line([(750, 820), (820, 820)])
 # heartbeat / link -> comms awareness
-line([(800, 1170), (752, 1170)], color=TEAL)
+line([(800, 885), (762, 885), (762, 1170), (752, 1170)], color=TEAL)
 
 # divider
 svg.append(f'<line x1="775" y1="200" x2="775" y2="{H - 40}" stroke="#d6262c" '
